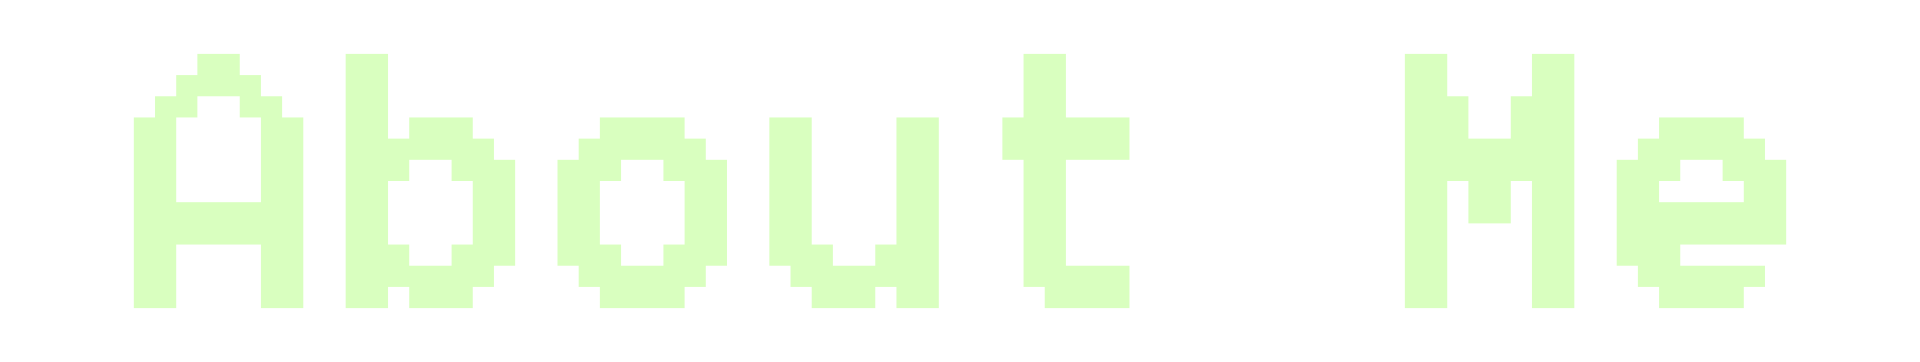
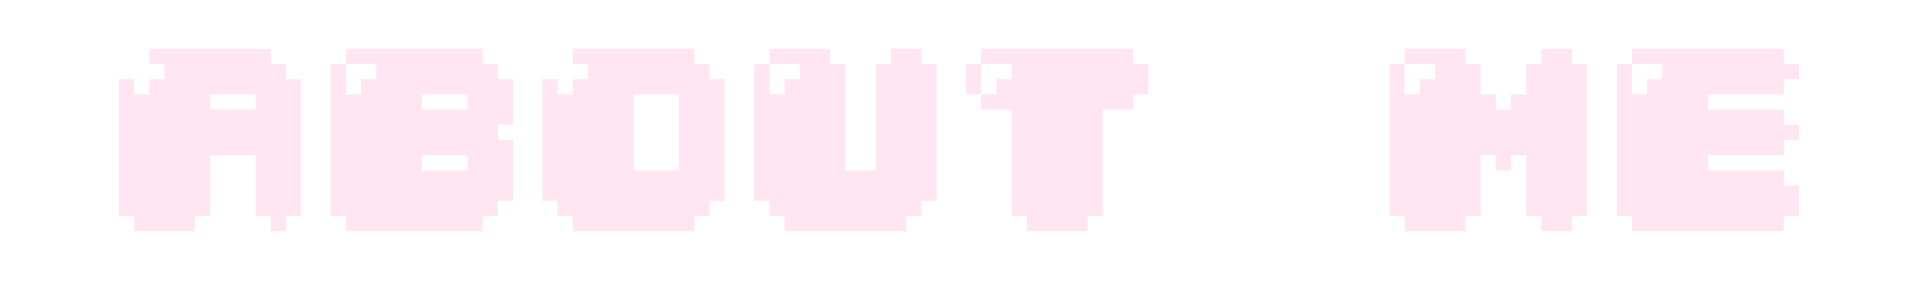
committed

diff --git a/Portfolio/bin/dashboard.html b/Portfolio/bin/dashboard.html
@@ -20,7 +20,7 @@
             <div class="text-center">
                 <img src="menu.gif" class="d-block my-5 mx-auto" style="width: 180px;">
             </div>
-            <ul class="nav flex-column mb-auto" style="font-size: 18px; margin-left: 30px;">
+            <ul class="nav flex-column mb-auto" style="font-size: 18px; margin-left: 20px;">
                 <li class="nav-item navbar navbar-light">
                     <a href="#"><img src="dashboard.png" class="d-block my-2" style="height: 30px;"></a>
                 </li>
@@ -28,12 +28,15 @@
                     <a href="#"><img src="aboutme.png" class="d-block my-2" style="height: 30px;"></a>
                 </li>
                 <li>
-                    <a href="#"><img src="links.png" class="d-block my-3" style="height: 28px;"></a>
+                    <a href="#"><img src="links.png" class="d-block my-3" style="height: 30px;"></a>
                 </li>
                 <li>
-                    <a href="#"><img src="certificates.png" class="d-block my-2" style="height: 25px;"></a>
+                    <a href="#"><img src="certificates.png" class="d-block my-2" style="height: 27px;"></a>
                 </li>
             </ul>
+        </div>
+        <div class="d-flex flex-row">
+            <iframe src="https://www3.cbox.ws/box/?boxid=3515038&boxtag=yaKOrQ" width="250px;" height="450" allowtransparency="yes" allow="autoplay" frameborder="0" marginheight="0" marginwidth="0" scrolling="auto" style="scrollbar-color: pink;"></iframe>
         </div>
     </main>
 

diff --git a/Portfolio/bin/dashboard.css b/Portfolio/bin/dashboard.css
@@ -1,14 +1,10 @@
 @charset "UTF-8";
 .bg-purple {
-    background-color: rgba(99, 0, 148, 0.3) !important;
-}
-
-.bg-pink {
-    background-color: rgba(255, 43, 131, 0.3) !important;
+    background-color: rgba(114, 0, 53, 0.6) !important;
 }
 
 body {
-    background-image: url("bg_4.png");
+    background-image: url("pink.png");
     background-repeat: no-repeat;
     background-size: 100% 100%;
     background-attachment: fixed;
